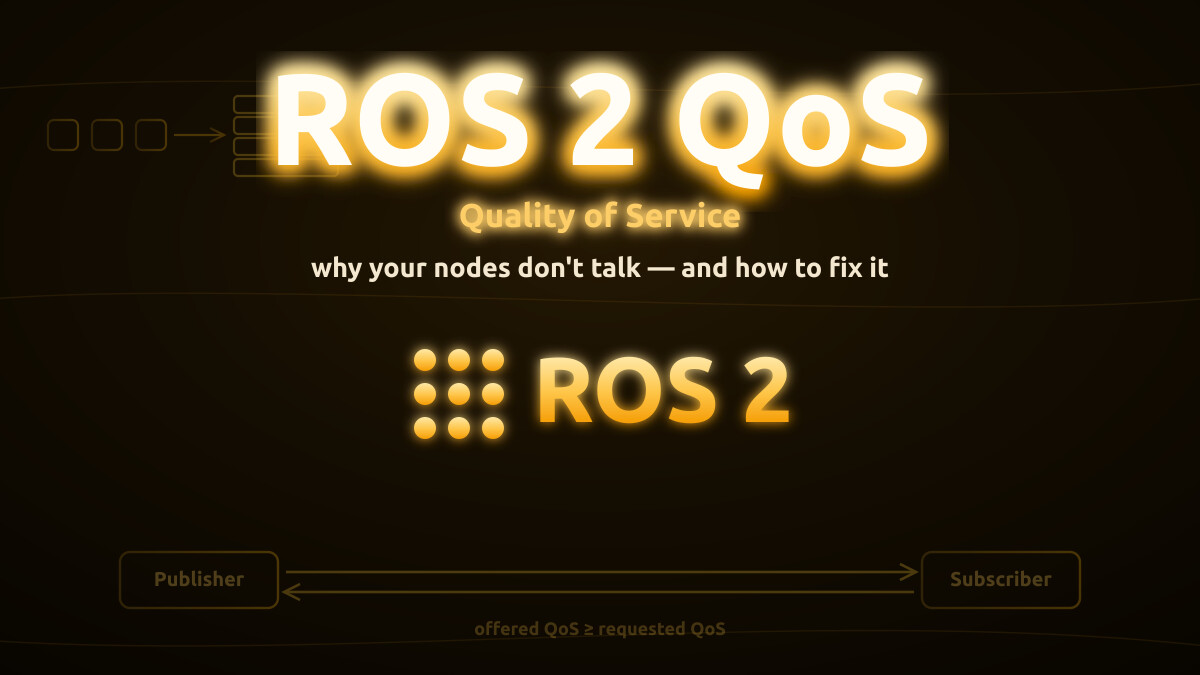
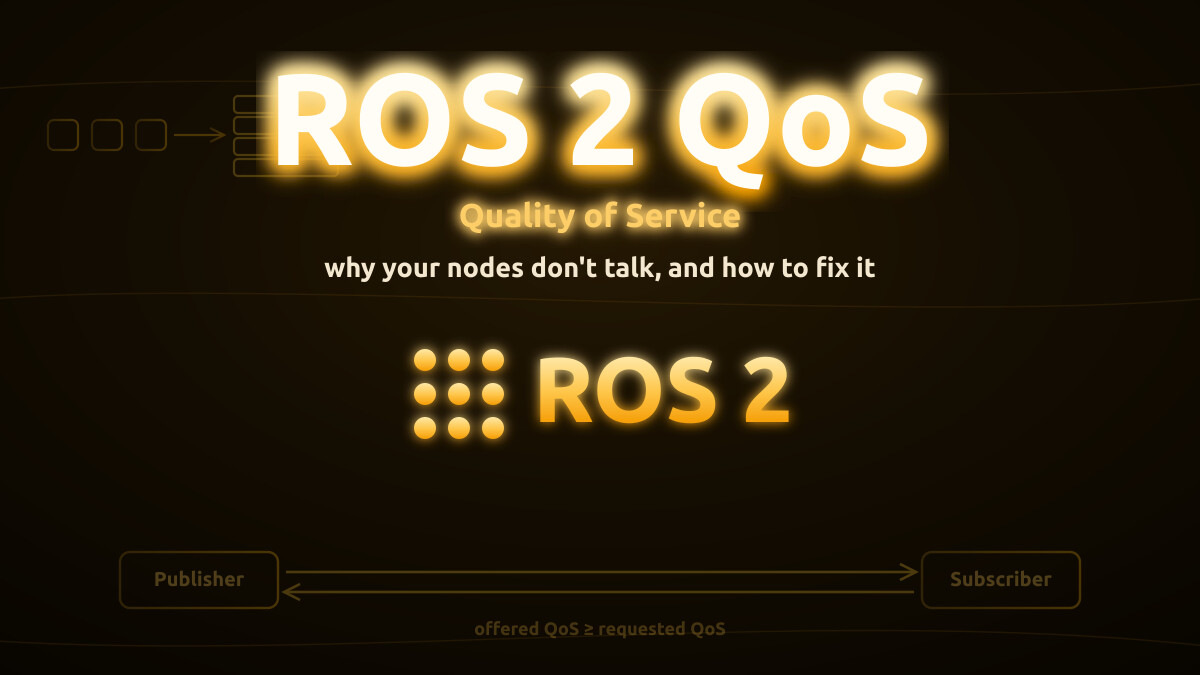
Improvements

Changed region(s): [[0.2467, 0.3733, 0.74, 0.4356]]

diff --git a/_tutorials/ros2/understanding-ros2-qos.md b/_tutorials/ros2/understanding-ros2-qos.md
@@ -21,11 +21,11 @@ classes: single
 
 ## Introduction
 
-Let me start with a confession. The single most frustrating bug I keep running into — and that I keep seeing new ROS 2 users run into — has nothing to do with broken code, segfaults, or build errors. It's two perfectly healthy nodes that simply *refuse to talk to each other*.
+Let me start with a confession. The single most frustrating bug I keep running into, and that I keep seeing new ROS 2 users run into, has nothing to do with broken code, segfaults, or build errors. It's two perfectly healthy nodes that simply *refuse to talk to each other*.
 
 The publisher is up. The subscriber is up. `ros2 topic list` shows the topic. `ros2 node info` looks fine. And yet the subscriber's callback is never called, and `ros2 topic echo` prints nothing but a blinking cursor. No error, no warning, no crash. Just silence.
 
-Nine times out of ten, the culprit is **QoS — Quality of Service**.
+Nine times out of ten, the culprit is **QoS, Quality of Service**.
 
 I promised in the [Understanding the ROS 2 Communication Middleware](/tutorials/ros2/understanding-ros2-middleware/) tutorial that I would dedicate a full chapter to QoS, and that I mentioned it again, almost in passing, in the [Configure a ROS 2 node using parameters](/tutorials/ros2/configure-node-with-parameters/) tutorial when those mysterious `qos_overrides` parameters showed up. This is that chapter. By the end of it, that silent-topic bug will stop being a mystery and become a five-second diagnosis.
 
@@ -39,15 +39,15 @@ ROS 2 inherits from [DDS](/tutorials/ros2/understanding-ros2-middleware/) a much
 - The **subscription** declares the QoS it *requests*.
 - The middleware connects the two **only if the offered QoS is compatible with the requested QoS**.
 
-This last point is the whole game. If the contracts are incompatible, DDS does exactly what a good lawyer would do: it refuses to sign. The two endpoints stay disconnected, and — historically the most painful part — it often happened *silently*. Modern ROS 2 distributions are much better at warning you, but the underlying rule hasn't changed.
+This last point is the whole game. If the contracts are incompatible, DDS does exactly what a good lawyer would do: it refuses to sign. The two endpoints stay disconnected and, historically the most painful part, it often happened *silently*. Modern ROS 2 distributions are much better at warning you, but the underlying rule hasn't changed.
 
-> :pushpin: **Note**: QoS is set **independently** on each endpoint, and it is **immutable after creation**. You choose it when you create the publisher or the subscription, and you cannot change it on the fly. To "change" QoS you destroy the endpoint and recreate it — which is exactly what `qos_overrides` does for you at startup, as we'll see later.
+> :pushpin: **Note**: QoS is set **independently** on each endpoint, and it is **immutable after creation**. You choose it when you create the publisher or the subscription, and you cannot change it on the fly. To "change" QoS you destroy the endpoint and recreate it, which is exactly what `qos_overrides` does for you at startup, as we'll see later.
 
 ## Why QoS matters in the real world
 
 QoS isn't academic. It maps directly onto the kind of trade-offs you make every day on a real robot:
 
-- **A LiDAR or camera stream**: you push hundreds of messages per second. If one frame is lost on a congested Wi‑Fi link, who cares — the next one is already on its way. You want *speed over guarantees*. That's `BEST_EFFORT` reliability.
+- **A LiDAR or camera stream**: you push hundreds of messages per second. If one frame is lost on a congested Wi‑Fi link, who cares; the next one is already on its way. You want *speed over guarantees*. That's `BEST_EFFORT` reliability.
 - **A goal command or an emergency-stop flag**: losing this message is unacceptable. You want *guarantees over speed*. That's `RELIABLE`.
 - **A static map or a robot description (`/tf_static`, `/map`, `/robot_description`)**: it's published once, but nodes that start *later* still need it. You want the last value to be *latched* and replayed to late joiners. That's `TRANSIENT_LOCAL` durability.
 
@@ -55,7 +55,7 @@ Pick the wrong profile and you get the classic failure modes I've personally bur
 
 - Your image topic floods the network and starves your control loop, because you left it `RELIABLE` with a huge queue.
 - Your subscriber never receives the static map, because it joined after the single publication and durability was `VOLATILE`.
-- `ros2 topic echo` shows nothing on a sensor topic, because `echo` defaults to `RELIABLE` while the sensor publishes `BEST_EFFORT` — incompatible contract, no data.
+- `ros2 topic echo` shows nothing on a sensor topic, because `echo` defaults to `RELIABLE` while the sensor publishes `BEST_EFFORT`, an incompatible contract, so no data.
 
 That last one deserves a frame, because it catches *everyone* at least once.
 
@@ -67,11 +67,11 @@ That last one deserves a frame, because it catches *everyone* at least once.
 
 ## The QoS policies in detail
 
-A QoS profile is made of several policies. Let's go through each one, because understanding them individually is what lets you reason about compatibility later.
+A QoS profile is made of several policies. Let's go through each one, because understanding them individually is what lets you reason about compatibility later. The authoritative reference for the full list is the official [About Quality of Service Settings](https://docs.ros.org/en/lyrical/Concepts/Intermediate/About-Quality-of-Service-Settings.html){:target="_blank"} page, which is well worth keeping open in a tab as you read.
 
 ### History and Depth
 
-These two control the **outgoing/incoming message queue** — what to keep when messages are produced faster than they can be sent or processed.
+These two control the **outgoing/incoming message queue**, what to keep when messages are produced faster than they can be sent or processed.
 
 - **History**
   - `KEEP_LAST`: keep only the last *N* messages, where *N* is the **depth**. Old messages are dropped. This is the common, bounded-memory choice.
@@ -100,7 +100,7 @@ The **maximum expected period between two consecutive messages** on a topic.
 
 - The publisher *offers* a deadline: "I promise to publish at least this often."
 - The subscription *requests* a deadline: "I expect a new message at least this often."
-- If a deadline is missed, the middleware fires an event you can hook into — extremely useful for detecting a sensor that has gone quiet.
+- If a deadline is missed, the middleware fires an event you can hook into, extremely useful for detecting a sensor that has gone quiet.
 
 The default is "infinite" (no deadline), meaning the policy is effectively disabled.
 
@@ -184,13 +184,13 @@ The recurring pattern across *all* policies: **the publisher must make a promise
 
 ## Diagnosing a QoS mismatch
 
-When a topic stays silent, don't guess — inspect. The most useful command is `ros2 topic info` with the verbose flag:
+When a topic stays silent, don't guess; inspect. The most useful command is `ros2 topic info` with the verbose flag:
 
 ```bash
 ros2 topic info /my_topic --verbose
 ```
 
-This prints, for every publisher and subscription on the topic, the **full QoS profile** of each endpoint. You can line them up against the tables above and spot the offending policy in seconds. For example, you might see a publisher with `Reliability: BEST_EFFORT` and a subscription with `Reliability: RELIABLE` — there's your culprit.
+This prints, for every publisher and subscription on the topic, the **full QoS profile** of each endpoint. You can line them up against the tables above and spot the offending policy in seconds. For example, you might see a publisher with `Reliability: BEST_EFFORT` and a subscription with `Reliability: RELIABLE`; there's your culprit.
 
 On recent distributions the middleware also emits a warning to the console when it detects an incompatible QoS pair, naming the exact policy that doesn't match. If you've enabled it, watch the logs:
 
@@ -205,7 +205,7 @@ That single log line would have saved me an embarrassing number of hours over th
 
 Now to the part that ties this tutorial back to [Configure a ROS 2 node using parameters](/tutorials/ros2/configure-node-with-parameters/). Normally, QoS is hard-coded by the developer when the publisher or subscription is created. That's fine until you deploy on a different network, a flaky Wi‑Fi link, or a multi-robot setup where you'd love to retune QoS **without recompiling**.
 
-ROS 2 solves this with **QoS overrides**: a mechanism that exposes a node's QoS settings as ordinary **node parameters**, so you can override them from the command line or, much more commonly, from a YAML file.
+ROS 2 solves this with **QoS overrides**: a mechanism that exposes a node's QoS settings as ordinary **node parameters**, so you can override them from the command line or, much more commonly, from a YAML file. If you want the full rationale and design behind this feature, the [QoS configurability](https://design.ros2.org/articles/qos_configurability.html){:target="_blank"} design article on the official ROS 2 design website is the canonical reference.
 
 ### Where those `qos_overrides` parameters come from
 
@@ -257,23 +257,96 @@ ros2 run my_pkg my_node \
     --ros-args --params-file /path/to/qos_config.yaml
 ```
 
-> :pushpin: **Note**: by default a node only lets you override the policies it considers safe to change. A node can declare which policies are overridable, and can even register a **validation callback** that rejects a combination it knows would break it. So don't be surprised if some overrides are accepted and others are silently ignored or refused — that's by design, and it's the node author protecting you from yourself.
+> :pushpin: **Note**: by default a node only lets you override the policies it considers safe to change. A node can declare which policies are overridable, and can even register a **validation callback** that rejects a combination it knows would break it. So don't be surprised if some overrides are accepted and others are silently ignored or refused; that's by design, and it's the node author protecting you from yourself.
 
-### The pragmatic reality: custom QoS parameters
+### Enabling QoS overrides in your own node (C++)
 
-In practice, a large fraction of mature ROS 2 drivers don't rely on `qos_overrides` at all. They expose their **own**, friendlier parameters — something like `general.pub_resolution` or `video.qos_reliability` — and translate them internally into a QoS profile. It's less standardized, but often clearer for the end user.
+Enabling overrides on the developer side takes two steps. First, you attach a `QosOverridingOptions` to the publisher (or subscription) options. Second, and this is the part people forget, you must pass those options into **every** `create_publisher` / `create_subscription` call, because overrides are enabled per endpoint:
 
-The [ZED ROS 2 Wrapper](https://github.com/stereolabs/zed-ros2-wrapper) I work on takes this route: it exposes explicit QoS parameters per stream so you can tune reliability, durability, and history depth for the image, depth, and sensor topics straight from the camera's YAML configuration files, without ever touching `qos_overrides`. When you adopt a new package, always check its documentation to learn *which* of the two styles it uses.
+```cpp
+// 1. Enable parameter-based QoS overrides on the options object
+rclcpp::PublisherOptions pub_options;
+pub_options.qos_overriding_options =
+    rclcpp::QosOverridingOptions::with_default_policies();
+
+// 2. Pass the options as the last argument when creating the endpoint.
+//    The QoS you pass here is just the DEFAULT; parameters override it.
+auto pub = create_publisher<sensor_msgs::msg::Image>(
+    "image", rclcpp::SensorDataQoS(), pub_options);
+```
+
+The same applies to subscriptions, with the options object as the final argument. Mind the argument order: `create_subscription` takes the callback *before* the options:
+
+```cpp
+rclcpp::SubscriptionOptions sub_options;
+sub_options.qos_overriding_options =
+    rclcpp::QosOverridingOptions::with_default_policies();
+
+auto sub = create_subscription<sensor_msgs::msg::Image>(
+    "image", rclcpp::SensorDataQoS(),
+    std::bind(&MyNode::imageCallback, this, std::placeholders::_1),
+    sub_options);
+```
+
+> :pushpin: **Note**: `with_default_policies()` exposes only **history**, **depth**, and **reliability**. If you also want **durability** (or deadline, lifespan, liveliness) to be overridable, you have to list the policy kinds explicitly in the `QosOverridingOptions` constructor. It's also worth knowing that two endpoints sharing the same topic name and kind need a unique `id`, otherwise the parameter would be declared twice and `rclcpp` will throw.
+
+To go beyond the default set of policies, list the `QosPolicyKind` values yourself. Here we make durability overridable too:
+
+```cpp
+rclcpp::PublisherOptions pub_options;
+pub_options.qos_overriding_options = rclcpp::QosOverridingOptions{
+    {
+      rclcpp::QosPolicyKind::History,
+      rclcpp::QosPolicyKind::Depth,
+      rclcpp::QosPolicyKind::Reliability,
+      rclcpp::QosPolicyKind::Durability,
+    }
+};
+```
+
+A common and tidy pattern in larger nodes is to keep a single shared `rclcpp::PublisherOptions` / `rclcpp::SubscriptionOptions` member, configure `qos_overriding_options` **once** in the constructor, and then reuse it for every endpoint the node creates:
+
+```cpp
+class MyNode : public rclcpp::Node
+{
+public:
+  MyNode() : rclcpp::Node("my_node")
+  {
+    mPubOpt.qos_overriding_options =
+        rclcpp::QosOverridingOptions::with_default_policies();
+    mSubOpt.qos_overriding_options =
+        rclcpp::QosOverridingOptions::with_default_policies();
+
+    mPub = create_publisher<sensor_msgs::msg::Image>("image", mQos, mPubOpt);
+    mSub = create_subscription<sensor_msgs::msg::Imu>(
+        "imu", mQos,
+        std::bind(&MyNode::imuCallback, this, std::placeholders::_1),
+        mSubOpt);
+  }
+
+private:
+  rclcpp::QoS mQos{10};                 // the DEFAULT profile
+  rclcpp::PublisherOptions mPubOpt;
+  rclcpp::SubscriptionOptions mSubOpt;
+  // ... publisher/subscription handles and callbacks ...
+};
+```
+
+With this pattern, **every** topic the node publishes or subscribes to automatically exposes its `qos_overrides.<topic>.<publisher|subscription>.<policy>` parameter tree, and the whole node becomes tunable from a single YAML file without recompiling.
+
+### The pragmatic reality: check the docs
+
+Standardizing on `qos_overrides` is clearly the direction the ecosystem is moving, but you'll still meet packages, and older releases of packages, that expose their **own**, friendlier QoS parameters (something like `video.qos_reliability`) and translate them internally into a profile. It's less standardized, but sometimes clearer for the end user. When you adopt a new package, always check its documentation to learn *which* of the two styles it uses before you start tuning.
 
 ## Conclusion
 
 QoS is the layer that turns ROS 2 from "messages on a wire" into a system you can actually tune for the real world: lossy links, late joiners, high-rate sensors, and safety-critical commands. The mechanics boil down to three things worth remembering:
 
 1. **QoS is a contract**, set per endpoint and immutable after creation.
-2. **A connection happens only when the offered QoS is at least as strong as the requested QoS** — that one inequality generates every compatibility table.
+2. **A connection happens only when the offered QoS is at least as strong as the requested QoS**; that one inequality generates every compatibility table.
 3. When a topic is silent, **`ros2 topic info --verbose` is your friend**, and `qos_overrides` (or a driver's custom parameters) is how you fix it without recompiling.
 
-Internalize the "offered ≥ requested" rule and the next silent topic won't cost you an afternoon — it'll cost you five seconds. For the full reference, the official [QoS Settings concept page](https://docs.ros.org/en/lyrical/Concepts/Intermediate/About-Quality-of-Service-Settings.html){:target="_blank"} and the hands-on [Quality of Service demo](https://docs.ros.org/en/lyrical/Tutorials/Demos/Quality-of-Service.html){:target="_blank"} are excellent next stops.
+Internalize the "offered ≥ requested" rule and the next silent topic won't cost you an afternoon; it'll cost you five seconds. For the full reference, the official [QoS Settings concept page](https://docs.ros.org/en/lyrical/Concepts/Intermediate/About-Quality-of-Service-Settings.html){:target="_blank"} and the hands-on [Quality of Service demo](https://docs.ros.org/en/lyrical/Tutorials/Demos/Quality-of-Service.html){:target="_blank"} are excellent next stops.
 
 ## Test your knowledge
 

diff --git a/_tutorials/ros2/ros2-lifecycle-nodes.md b/_tutorials/ros2/ros2-lifecycle-nodes.md
@@ -573,6 +573,6 @@ Every lifecycle node exposes these four services automatically. <code>set_parame
 
 ## What's next
 
-The next tutorial of this series tackles one of the most underrated — and most frequently misunderstood — topics in ROS 2, the one behind countless "my nodes won't talk to each other" headaches: [ROS 2 QoS: Why Your Nodes Aren't Talking (and How to Fix It)](/tutorials/ros2/understanding-ros2-qos/).
+The next tutorial of this series tackles one of the most underrated, and most frequently misunderstood, topics in ROS 2, the one behind countless "my nodes won't talk to each other" headaches: [ROS 2 QoS: Why Your Nodes Aren't Talking (and How to Fix It)](/tutorials/ros2/understanding-ros2-qos/).
 
 **Happy robotics programming!** :robot:
